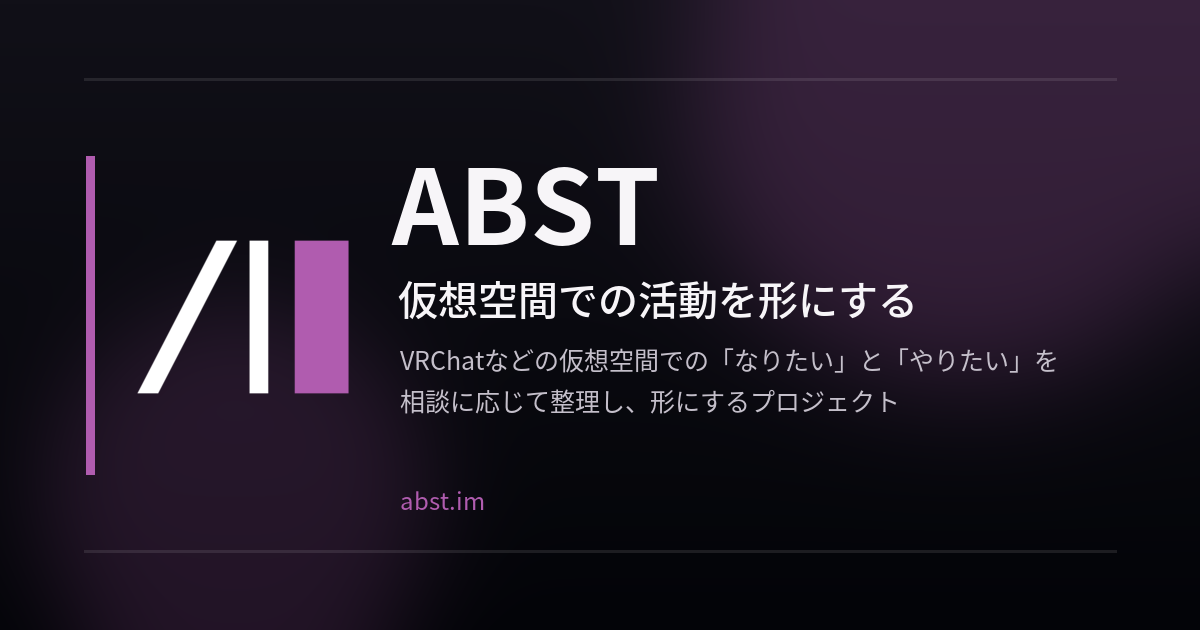
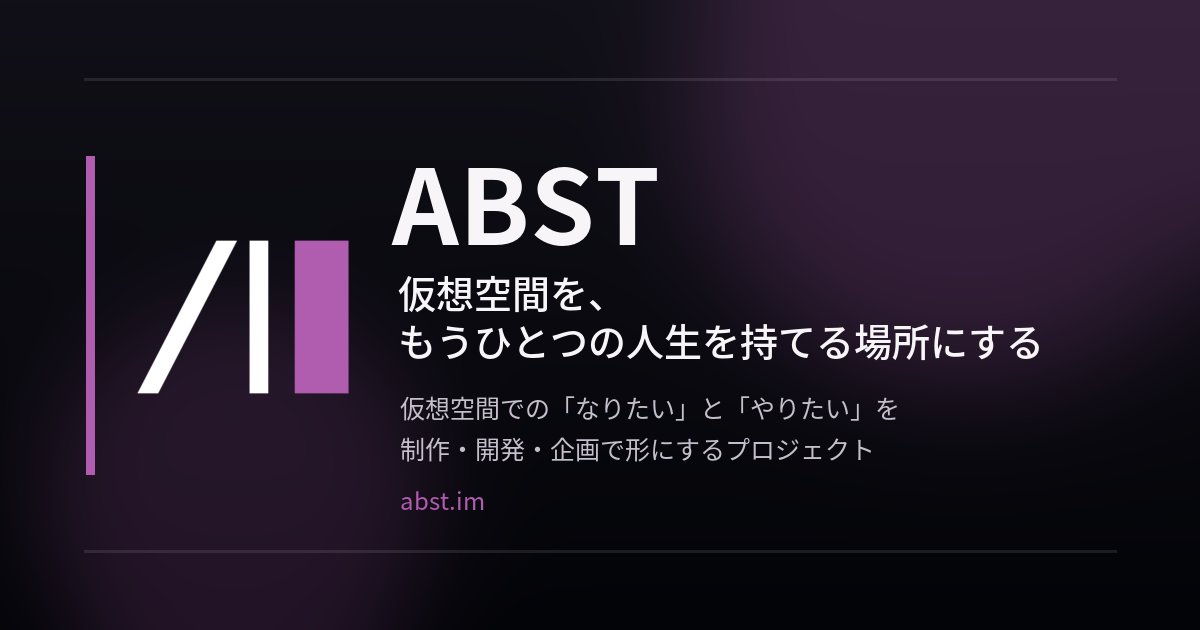
Update ABST site vision messaging

Changed region(s): [[0.3083, 0.4222, 0.8942, 0.6635], [0.3392, 0.6937, 0.74, 0.754]]

diff --git a/index.html b/index.html
@@ -3,12 +3,12 @@
 <head>
   <meta charset="utf-8">
   <meta name="viewport" content="width=device-width, initial-scale=1">
-  <title>ABST | 仮想空間での活動を形にする</title>
-  <meta name="description" content="ABSTは、VRChatなどの仮想空間での「なりたい」と「やりたい」を、相談に応じて整理し、形にするプロジェクトです。">
+  <title>ABST | 仮想空間を、もうひとつの人生を持てる場所にする</title>
+  <meta name="description" content="ABSTは、仮想空間での「なりたい」と「やりたい」を、3Dモデル制作・ソフトウェア開発・イベント企画で形にするプロジェクトです。">
   <link rel="canonical" href="https://abst.im/">
   <meta property="og:type" content="website">
-  <meta property="og:title" content="ABST | 仮想空間でのやりたいを叶える">
-  <meta property="og:description" content="仮想空間での「なりたい」と「やりたい」を、相談に応じて整理し、形にするプロジェクトです。">
+  <meta property="og:title" content="ABST | 仮想空間を、もうひとつの人生を持てる場所にする">
+  <meta property="og:description" content="仮想空間での「なりたい」と「やりたい」を、3Dモデル制作・ソフトウェア開発・イベント企画で形にするプロジェクトです。">
   <meta property="og:url" content="https://abst.im/">
   <meta property="og:image" content="https://abst.im/ogp.png">
   <meta property="og:image:width" content="1200">
@@ -783,89 +783,150 @@
     <section class="page-hero" aria-labelledby="page-title">
       <div>
         <h1 id="page-title" class="page-title">
-          <span class="copy-line">仮想空間で、</span>
-          <span class="copy-line">なりたい姿になる。</span>
-          <span class="copy-line">やりたいことを始める。</span>
+          <span class="copy-line">仮想空間を、</span>
+          <span class="copy-line">もうひとつの人生を</span>
+          <span class="copy-line">持てる場所にする。</span>
         </h1>
         <p class="page-lead">
-          <span class="copy-line">ABSTは、VRChatなどの仮想空間での「なりたい」と「やりたい」を、</span>
-          <span class="copy-line">相談に応じて整理し、形にしていくプロジェクトです。</span>
+          <span class="copy-line">望む姿で存在し、遠くの誰かと集まり、活動を始める。</span>
+          <span class="copy-line">ABSTは、仮想空間での「なりたい」と「やりたい」を、</span>
+          <span class="copy-line">3Dモデル制作・ソフトウェア開発・イベント企画で形にするプロジェクトです。</span>
         </p>
         <div class="hero-actions" aria-label="Primary actions">
           <a class="action-link" href="mailto:[email redacted]?subject=ABST%E3%81%B8%E3%81%AE%E9%80%A3%E7%B5%A1">連絡する</a>
-          <a class="action-link secondary" href="#scope">扱う領域を見る</a>
-          <a class="action-link secondary" href="#how-we-work">進め方を見る</a>
+          <a class="action-link secondary" href="#create">つくるものを見る</a>
+          <a class="action-link secondary" href="#for-you">相談できることを見る</a>
         </div>
         <ul class="hero-scope" aria-label="ABSTが扱う領域">
           <li>3Dモデル</li>
-          <li>ワールド</li>
-          <li>イベント</li>
+          <li>アバター</li>
+          <li>衣装・小物</li>
           <li>専用ツール</li>
-          <li>演出</li>
-          <li>運用</li>
+          <li>イベント</li>
+          <li>ワールド</li>
         </ul>
       </div>
     </section>
 
-    <section class="section" id="scope">
+    <section class="section" id="why">
       <div class="section-label">
         <span class="label-bar" aria-hidden="true"></span>
-        <h2 class="section-title">関わる領域</h2>
+        <h2 class="section-title">Why</h2>
       </div>
       <div class="section-body">
         <p class="lead">
-          仮想空間で必要になるものを、相談に応じて整理し、形にします。
+          仮想空間で過ごす時間は、ただの遊びではない。
         </p>
         <p class="copy">
-          <span class="copy-line">ABSTは、3Dモデル製作だけ、ツール開発だけ、といった単体の活動に閉じません。</span>
-          <span class="copy-line">仮想空間で活動を始めるために必要なものや進め方を、実現に向けて組み立てます。</span>
+          <span class="copy-line">そこで出会う人がいる。そこでしかなれない姿がある。</span>
+          <span class="copy-line">そこで始まる活動があり、その人を形づくる時間がある。</span>
+        </p>
+        <p class="copy">
+          <span class="copy-line">ABSTは、その価値を信じています。</span>
+          <span class="copy-line">仮想空間で生きる人たちが、もっと自由に表現し、集まり、続けていけるようにする。</span>
+          <span class="copy-line">そのために、私たちはつくります。</span>
+        </p>
+      </div>
+    </section>
+
+    <section class="section" id="vision">
+      <div class="section-label">
+        <span class="label-bar" aria-hidden="true"></span>
+        <h2 class="section-title">Vision</h2>
+      </div>
+      <div class="section-body">
+        <p class="lead">
+          ひとつの姿、ひとつの場所、ひとつの役割だけで生きなくていい。
+        </p>
+        <p class="copy">
+          <span class="copy-line">仮想空間では、望む姿で存在できる。</span>
+          <span class="copy-line">距離を越えて誰かと集まれる。</span>
+          <span class="copy-line">新しい活動や文化を始められる。</span>
+        </p>
+        <p class="copy">
+          <span class="copy-line">現実と並行して育つ、もうひとつの生活。</span>
+          <span class="copy-line">ABSTは、その未来を特別な誰かだけのものにせず、仮想空間を愛する人の手に届くものにしていきます。</span>
+        </p>
+      </div>
+    </section>
+
+    <section class="section" id="mission">
+      <div class="section-label">
+        <span class="label-bar" aria-hidden="true"></span>
+        <h2 class="section-title">Mission</h2>
+      </div>
+      <div class="section-body">
+        <p class="lead">
+          仮想空間での「なりたい」と「やりたい」を、実際に動く形にする。
+        </p>
+        <p class="copy">
+          <span class="copy-line">まだ言葉になっていない願いでもいい。</span>
+          <span class="copy-line">小さな違和感や、ぼんやりした憧れでもいい。</span>
+          <span class="copy-line">ABSTはそれを受け取り、必要な制作物や企画に整理して、使える状態まで形にします。</span>
+        </p>
+      </div>
+    </section>
+
+    <section class="section" id="create">
+      <div class="section-label">
+        <span class="label-bar" aria-hidden="true"></span>
+        <h2 class="section-title">Create</h2>
+      </div>
+      <div class="section-body">
+        <p class="lead">
+          ABSTは、仮想空間での制作・開発・企画を行います。
+        </p>
+        <p class="copy">
+          <span class="copy-line">アバターや衣装、活動を支えるツール、人が集まるイベントやワールド。</span>
+          <span class="copy-line">仮想空間で実際に使われるものとして、目的に合わせて設計し、制作します。</span>
         </p>
         <div class="area-grid">
           <article class="area-item">
-            <h3>姿をつくる</h3>
+            <h3>3Dモデル制作</h3>
             <p class="copy">アバター、衣装、小物、アクセサリー、演出用オブジェクトなど。</p>
           </article>
           <article class="area-item">
-            <h3>仕組みをつくる</h3>
+            <h3>ソフトウェア開発</h3>
             <p class="copy">制作支援ツール、専用UI、画像・音声・3D処理、活動を支えるソフトウェアなど。</p>
           </article>
           <article class="area-item">
-            <h3>場をつくる</h3>
-            <p class="copy">VRChatなどで人が集まるイベント、ワールド、演出、体験設計など。</p>
+            <h3>イベント企画</h3>
+            <p class="copy">人が集まるイベント、ワールド、演出、体験設計、運用など。</p>
           </article>
         </div>
       </div>
     </section>
 
-    <section class="section" id="for-clients">
+    <section class="section" id="for-you">
       <div class="section-label">
         <span class="label-bar" aria-hidden="true"></span>
-        <h2 class="section-title">始めたい方へ</h2>
+        <h2 class="section-title">For You</h2>
       </div>
       <div class="section-body">
         <p class="lead">
-          まだ内容が固まっていない段階から、一緒に形にしていきます。
+          あなたの「こうなりたい」から始めてください。
         </p>
         <p class="copy">
-          <span class="copy-line">「何を作ればいいかわからない」状態でも構いません。</span>
-          <span class="copy-line">実現したいこと、困っていること、作りたい体験から、必要な制作物や進め方を整理します。</span>
+          <span class="copy-line">完成した企画でなくても構いません。</span>
+          <span class="copy-line">なりたい姿、開きたい場所、始めたい活動、うまく言葉にできない憧れ。</span>
+          <span class="copy-line">ABSTはそこから一緒に考えます。</span>
         </p>
         <div class="entry-list">
           <article class="entry-item">
             <h3>こういう姿になりたい</h3>
-            <p class="copy">アバター、衣装、小物、演出用オブジェクトなど。</p>
+            <p class="copy">アバター、衣装、小物、アクセサリー、演出用オブジェクトなど。</p>
           </article>
           <article class="entry-item">
-            <h3>こういう場を開きたい</h3>
-            <p class="copy">イベント、ワールド、体験設計、運用など。</p>
-          </article>
-          <article class="entry-item">
-            <h3>こういう仕組みがほしい</h3>
+            <h3>活動に必要なものを作りたい</h3>
             <p class="copy">専用ツール、制作支援、画像・音声・3D処理、UIなど。</p>
           </article>
           <article class="entry-item">
-            <h3>進め方が見えない</h3>
-            <p class="copy">要件整理、優先順位づけ、必要に応じた作り手との連携など。</p>
+            <h3>人が集まる場を開きたい</h3>
+            <p class="copy">イベント、ワールド、体験設計、演出、運用など。</p>
+          </article>
+          <article class="entry-item">
+            <h3>何から作ればいいかわからない</h3>
+            <p class="copy">やりたいことの整理、優先順位づけ、必要な制作物や進め方の設計など。</p>
           </article>
         </div>
       </div>
@@ -874,39 +935,38 @@
     <section class="section" id="how-we-work">
       <div class="section-label">
         <span class="label-bar" aria-hidden="true"></span>
-        <h2 class="section-title">進め方</h2>
+        <h2 class="section-title">Process</h2>
       </div>
       <div class="section-body">
         <p class="lead">
-          目的に合わせて、必要なものを順番に形にします。
+          想いを聞き、必要なものを組み立て、使える状態まで届けます。
         </p>
         <div class="work-list">
           <article class="work-item">
             <span class="num">01</span>
-            <h3 class="work-name">ヒアリング</h3>
+            <h3 class="work-name">聞く</h3>
             <p class="work-desc">
-              <span class="copy-line">やりたいこと、課題、必要なものを伺います。</span>
-              <span class="copy-line">具体的な仕様がなくても構いません。</span>
+              <span class="copy-line">なりたい姿、始めたい活動、困っていることを伺います。</span>
+              <span class="copy-line">具体的な仕様になっていなくても構いません。</span>
             </p>
           </article>
           <article class="work-item">
             <span class="num">02</span>
-            <h3 class="work-name">設計</h3>
+            <h3 class="work-name">組み立てる</h3>
             <p class="work-desc">
-              <span class="copy-line">必要な体験、制作物、技術、運用を整理し、進め方を決めます。</span>
+              <span class="copy-line">必要な表現、制作物、技術、運用を整理し、進め方を決めます。</span>
             </p>
           </article>
           <article class="work-item">
             <span class="num">03</span>
-            <h3 class="work-name">制作</h3>
+            <h3 class="work-name">つくる</h3>
             <p class="work-desc">
-              <span class="copy-line">姿・仕組み・場を、目的に合わせて形にします。</span>
-              <span class="copy-line">必要に応じて作り手と連携します。</span>
+              <span class="copy-line">3Dモデル、ソフトウェア、イベントなどを目的に合わせて形にします。</span>
             </p>
           </article>
           <article class="work-item">
             <span class="num">04</span>
-            <h3 class="work-name">納品・運用</h3>
+            <h3 class="work-name">届ける</h3>
             <p class="work-desc">
               <span class="copy-line">仮想空間で実際に使える状態まで届けます。</span>
               <span class="copy-line">必要に応じて運用や実施まで伴走します。</span>
@@ -919,19 +979,19 @@
     <section class="section" id="stage">
       <div class="section-label">
         <span class="label-bar" aria-hidden="true"></span>
-        <h2 class="section-title">ABSTについて</h2>
+        <h2 class="section-title">About</h2>
       </div>
       <div class="section-body">
         <p class="lead">
-          ABSTは、会社や固定された制作チームではありません。
+          ABSTは、仮想空間に根づく表現と活動をつくっていくプロジェクトです。
         </p>
         <p class="copy">
-          <span class="copy-line">相談内容に応じて、自分たちで作るもの、チームで進めるもの、適切な作り手と連携するものを見極めます。</span>
-          <span class="copy-line">連携や進行整理は、仮想空間で使えるものを形にするために必要な範囲で行います。</span>
+          <span class="copy-line">いまは、一つひとつの制作、開発、企画から始めています。</span>
+          <span class="copy-line">けれど見ているのは、仮想空間で人が姿を持ち、活動し、関係を築き、文化を育てていく未来です。</span>
         </p>
         <p class="copy">
-          <span class="copy-line">ABSTは、仮想空間で何かを始めたい人とともに、必要な準備や作り方を整理して進めます。</span>
-          <span class="copy-line">まだ形になっていない願いや構想を受け取り、仮想空間で実際に活動が始まるところまで届けます。</span>
+          <span class="copy-line">ABSTは、その未来に必要なものを、ひとつずつ作っていきます。</span>
+          <span class="copy-line">誰かの「なりたい」と「やりたい」が、仮想空間で実際に動き出すところまで届けます。</span>
         </p>
       </div>
     </section>
@@ -939,7 +999,7 @@
     <section class="section" id="representative">
       <div class="section-label">
         <span class="label-bar" aria-hidden="true"></span>
-        <h2 class="section-title">代表</h2>
+        <h2 class="section-title">Representative</h2>
       </div>
       <div class="section-body">
         <h3 class="profile-name">坂本クリス</h3>
@@ -949,48 +1009,23 @@
         </p>
         <p class="copy">
           <span class="copy-line">坂本クリス自身も、VRChatで遊び、場を作り、人と関わりながら活動しています。</span>
-          <span class="copy-line">仮想空間を外から見るのではなく、自ら楽しみながら、その可能性を広げていきたいと考えています。</span>
+          <span class="copy-line">仮想空間を外から見るのではなく、自ら楽しみながら、そこにある表現と関係の可能性を広げていきます。</span>
         </p>
       </div>
     </section>
 
-    <section class="section" id="thinking">
+    <section class="section" id="partners">
       <div class="section-label">
         <span class="label-bar" aria-hidden="true"></span>
-        <h2 class="section-title">考え方</h2>
+        <h2 class="section-title">Partners</h2>
       </div>
       <div class="section-body">
         <p class="lead">
-          仮想空間を、もっと楽しい場所にする。
+          ABSTは、仮想空間での活動づくりに関わる作り手ともつながっていきます。
         </p>
         <p class="copy">
-          <span class="copy-line">ABSTが大切にしているのは、その一点です。</span>
-        </p>
-        <p class="copy">
-          <span class="copy-line">仮想空間では、誰でもなりたい姿で遊べる。</span>
-          <span class="copy-line">誰かに会いに行ける。</span>
-          <span class="copy-line">場を開ける。</span>
-          <span class="copy-line">活動を始められる。</span>
-        </p>
-        <p class="copy">
-          <span class="copy-line">ただ眺めるだけの場所ではなく、自分から関わり、遊び、集まり、何者かになれる場所。</span>
-          <span class="copy-line">ABSTは、その楽しさを知っています。そして、その楽しさをもっと広げたい。</span>
-        </p>
-      </div>
-    </section>
-
-    <section class="section" id="for-creators">
-      <div class="section-label">
-        <span class="label-bar" aria-hidden="true"></span>
-        <h2 class="section-title">関わりたい方へ</h2>
-      </div>
-      <div class="section-body">
-        <p class="lead">
-          ABSTは、仮想空間での活動づくりに関わりたい作り手にも開かれています。
-        </p>
-        <p class="copy">
-          <span class="copy-line">3Dモデル製作・ソフトウェア開発・イベント企画、ワールド制作、演出、運用など、</span>
-          <span class="copy-line">仮想空間に関わるスキルを持つ人とつながり、実現できることを増やしていきます。</span>
+          <span class="copy-line">3Dモデル制作、ソフトウェア開発、イベント企画、ワールド制作、演出、運用など。</span>
+          <span class="copy-line">仮想空間に関わるスキルを持つ人と連携し、実現できることを増やしていきます。</span>
         </p>
       </div>
     </section>
@@ -1003,8 +1038,9 @@
       <div class="section-body">
         <div class="contact-row">
           <p class="copy">
-            <span class="copy-line">仮想空間で実現したいことがある方、</span>
-            <span class="copy-line">仮想空間での活動づくりに関わりたい方はご連絡ください。</span>
+            <span class="copy-line">なりたい姿がある。始めたい活動がある。</span>
+            <span class="copy-line">誰かと集まる場所をつくりたい。</span>
+            <span class="copy-line">まだ形になっていない想いからでも、ABSTは一緒に考えます。</span>
           </p>
           <a class="mail-link" href="mailto:[email redacted]">
             <span>[email redacted]</span>